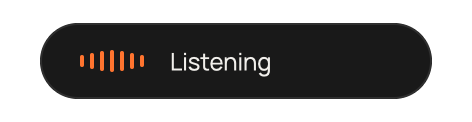
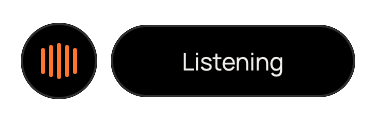
Redesign recording overlay with separate voice circle and status pill

diff --git a/src/overlay.rs b/src/overlay.rs
@@ -11,6 +11,15 @@ use objc2_foundation::{NSPoint, NSString};
 use raw_window_handle::{HasWindowHandle, RawWindowHandle};
 use std::time::Instant;
 
+const VOICE_DIAMETER: f32 = 38.;
+const LABEL_WIDTH: f32 = 122.;
+const LABEL_HEIGHT: f32 = 36.;
+const SURFACE_GAP: f32 = 7.;
+const WINDOW_MARGIN: f32 = 10.;
+const WINDOW_WIDTH: f32 = VOICE_DIAMETER + SURFACE_GAP + LABEL_WIDTH + WINDOW_MARGIN * 2.;
+const WINDOW_HEIGHT: f32 = 60.;
+const BAR_BASELINE: f32 = 3.;
+
 pub struct Overlay {
     window: WindowHandle<VoicePill>,
     native: Retained<NSWindow>,
@@ -19,8 +28,56 @@ pub struct Overlay {
 
 struct VoicePill {
     label: SharedString,
-    level: f32,
+    meter: VoiceMeter,
     started: Instant,
+}
+
+struct VoiceMeter {
+    recent: [f32; 5],
+    heights: [f32; 5],
+    rendered_at: Instant,
+}
+
+impl VoiceMeter {
+    fn new(now: Instant) -> Self {
+        Self {
+            recent: [0.; 5],
+            heights: [BAR_BASELINE; 5],
+            rendered_at: now,
+        }
+    }
+
+    fn push(&mut self, level: f32) {
+        let level = if level.is_finite() {
+            level.clamp(0., 1.)
+        } else {
+            0.
+        };
+        self.recent.rotate_left(1);
+        self.recent[4] = ((level - 0.012).max(0.) * 1.5).min(1.).sqrt();
+    }
+
+    fn sample(&mut self, now: Instant, reduced_motion: bool) -> ([f32; 5], bool) {
+        let elapsed = now.duration_since(self.rendered_at).as_secs_f32().min(0.1);
+        self.rendered_at = now;
+        let mut settling = false;
+        for (index, envelope) in [0.65, 0.85, 1., 0.85, 0.65].into_iter().enumerate() {
+            let target = BAR_BASELINE + self.recent[index] * envelope * 19.;
+            let height = &mut self.heights[index];
+            if reduced_motion {
+                *height = target;
+                continue;
+            }
+            let duration = if target > *height { 0.035 } else { 0.110 };
+            *height += (target - *height) * (1. - (-elapsed / duration).exp());
+            if (target - *height).abs() < 0.02 {
+                *height = target;
+            } else {
+                settling = true;
+            }
+        }
+        (self.heights, settling)
+    }
 }
 
 impl Overlay {
@@ -29,7 +86,7 @@ impl Overlay {
             WindowOptions {
                 window_bounds: Some(WindowBounds::Windowed(Bounds::centered(
                     None,
-                    size(px(236.), px(60.)),
+                    size(px(WINDOW_WIDTH), px(WINDOW_HEIGHT)),
                     cx,
                 ))),
                 titlebar: None,
@@ -45,7 +102,7 @@ impl Overlay {
             |_, cx| {
                 cx.new(|_| VoicePill {
                     label: "Listening".into(),
-                    level: 0.,
+                    meter: VoiceMeter::new(Instant::now()),
                     started: Instant::now(),
                 })
             },
@@ -111,15 +168,19 @@ impl Overlay {
             "Words saved for copying" => "Copy your words",
             label => label,
         };
-        let level = if level.is_finite() {
-            level.clamp(0., 1.)
-        } else {
-            0.
-        };
+        let was_visible = self.visible;
         let _ = self.window.update(cx, |pill, _, cx| {
-            if pill.label.as_ref() != label || (pill.level - level).abs() > 0.005 {
+            let changed = pill.label.as_ref() != label;
+            if !visible || !was_visible || changed {
+                pill.meter = VoiceMeter::new(Instant::now());
+            }
+            if visible && label == "Listening" {
+                pill.meter.push(level);
+            }
+            if changed {
                 pill.label = label.to_owned().into();
-                pill.level = level;
+            }
+            if changed || visible {
                 cx.notify();
             }
         });
@@ -127,7 +188,7 @@ impl Overlay {
             if let Some(screen) = MainThreadMarker::new().and_then(NSScreen::mainScreen) {
                 let frame = screen.visibleFrame();
                 self.native.setFrameOrigin(NSPoint::new(
-                    frame.origin.x + (frame.size.width - 236.) / 2.,
+                    frame.origin.x + (frame.size.width - f64::from(WINDOW_WIDTH)) / 2.,
                     frame.origin.y + 18.,
                 ));
             }
@@ -169,26 +230,25 @@ impl Render for VoicePill {
     fn render(&mut self, window: &mut Window, _: &mut Context<Self>) -> impl IntoElement {
         let listening = self.label.as_ref() == "Listening";
         let busy = matches!(self.label.as_ref(), "Starting" | "Transcribing");
+        let reduced_motion = crate::platform::reduced_motion();
+        let (heights, settling) = self.meter.sample(Instant::now(), reduced_motion);
+        if listening && settling {
+            window.request_animation_frame();
+        }
         let waveform = div()
             .flex()
             .items_center()
             .justify_center()
-            .gap(px(3.))
-            .w(px(42.))
-            .h(px(24.))
-            .children([0.35, 0.65, 0.9, 1., 0.9, 0.65, 0.35].map(|envelope| {
+            .gap(px(2.))
+            .children(heights.map(|height| {
                 div()
                     .w(px(2.))
-                    .h(px(if listening {
-                        3. + self.level * envelope * 18.
-                    } else {
-                        3.
-                    }))
+                    .h(px(if listening { height } else { BAR_BASELINE }))
                     .rounded_full()
                     .bg(rgb(0xff742f))
             }));
         let feedback = if busy {
-            let phase = if crate::platform::reduced_motion() {
+            let phase = if reduced_motion {
                 0.
             } else {
                 window.request_animation_frame();
@@ -216,7 +276,7 @@ impl Render for VoicePill {
                     }
                 },
             )
-            .w(px(42.))
+            .w(px(24.))
             .h(px(24.))
             .into_any_element()
         } else {
@@ -232,17 +292,35 @@ impl Render for VoicePill {
                 div()
                     .flex()
                     .items_center()
-                    .gap(px(8.))
-                    .px(px(14.))
-                    .h(px(38.))
-                    .rounded_full()
-                    .bg(rgb(0x191919))
-                    .border_1()
-                    .border_color(rgba(0xffffff18))
+                    .gap(px(SURFACE_GAP))
                     .text_size(px(12.))
                     .text_color(rgb(0xf2f0ec))
-                    .child(feedback)
-                    .child(div().w(px(116.)).child(self.label.clone())),
+                    .child(
+                        div()
+                            .flex()
+                            .items_center()
+                            .justify_center()
+                            .size(px(VOICE_DIAMETER))
+                            .rounded_full()
+                            .bg(rgb(0x000000))
+                            .border_1()
+                            .border_color(rgb(0x303030))
+                            .child(feedback),
+                    )
+                    .child(
+                        div()
+                            .flex()
+                            .items_center()
+                            .justify_center()
+                            .w(px(LABEL_WIDTH))
+                            .h(px(LABEL_HEIGHT))
+                            .rounded_full()
+                            .bg(rgb(0x000000))
+                            .border_1()
+                            .border_color(rgb(0x303030))
+                            .text_center()
+                            .child(self.label.clone()),
+                    ),
             )
     }
 }
@@ -250,5 +328,131 @@ impl Render for VoicePill {
 impl Drop for Overlay {
     fn drop(&mut self) {
         self.native.orderOut(None);
+    }
+}
+
+#[cfg(test)]
+mod tests {
+    use super::VoiceMeter;
+    use std::time::{Duration, Instant};
+
+    fn assert_heights(actual: [f32; 5], expected: [f32; 5]) {
+        for (actual, expected) in actual.into_iter().zip(expected) {
+            assert!((actual - expected).abs() < 0.002, "{actual} != {expected}");
+        }
+    }
+
+    #[test]
+    fn quiet_and_loud_speech_have_visible_range() {
+        let now = Instant::now();
+        let mut meter = VoiceMeter::new(now);
+        for _ in 0..5 {
+            meter.push(0.06);
+        }
+        assert_heights(
+            meter.sample(now, true).0,
+            [6.3139, 7.3336, 8.0982, 7.3336, 6.3139],
+        );
+        for _ in 0..5 {
+            meter.push(1.);
+        }
+        assert_heights(meter.sample(now, true).0, [15.35, 19.15, 22., 19.15, 15.35]);
+    }
+
+    #[test]
+    fn repeated_samples_advance_the_visible_history() {
+        let now = Instant::now();
+        let mut meter = VoiceMeter::new(now);
+        meter.push(0.06);
+        assert_heights(meter.sample(now, true).0, [3., 3., 3., 3., 6.3139]);
+        meter.push(0.06);
+        assert_heights(meter.sample(now, true).0, [3., 3., 3., 7.3336, 6.3139]);
+    }
+
+    #[test]
+    fn smoothing_depends_on_elapsed_time_instead_of_frame_count() {
+        let now = Instant::now();
+        let mut one_frame = VoiceMeter::new(now);
+        let mut two_frames = VoiceMeter::new(now);
+        for _ in 0..5 {
+            one_frame.push(1.);
+            two_frames.push(1.);
+        }
+        two_frames.sample(now + Duration::from_millis(35), false);
+        let (one, one_settling) = one_frame.sample(now + Duration::from_millis(70), false);
+        let (two, two_settling) = two_frames.sample(now + Duration::from_millis(70), false);
+        let expected = [13.6786, 16.9643, 19.4286, 16.9643, 13.6786];
+        assert_heights(one, expected);
+        assert_heights(two, expected);
+        assert!(one_settling && two_settling);
+    }
+
+    #[test]
+    fn silence_releases_then_stops_requesting_frames() {
+        let now = Instant::now();
+        let mut meter = VoiceMeter::new(now);
+        for _ in 0..5 {
+            meter.push(1.);
+        }
+        meter.sample(now, true);
+        for _ in 0..5 {
+            meter.push(0.);
+        }
+        let (releasing, settling) = meter.sample(now + Duration::from_millis(55), false);
+        assert_heights(releasing, [10.4907, 12.7955, 14.5241, 12.7955, 10.4907]);
+        assert!(settling);
+        for frame in 2..=20 {
+            meter.sample(now + Duration::from_millis(frame * 55), false);
+        }
+        let (silent, settling) = meter.sample(now + Duration::from_millis(1155), false);
+        assert_heights(silent, [3.; 5]);
+        assert!(!settling);
+    }
+
+    #[test]
+    fn reduced_motion_uses_real_targets_without_settling() {
+        let now = Instant::now();
+        let mut meter = VoiceMeter::new(now);
+        meter.push(1.);
+        let (heights, settling) = meter.sample(now, true);
+        assert_heights(heights, [3., 3., 3., 3., 15.35]);
+        assert!(!settling);
+    }
+
+    #[test]
+    fn long_render_pauses_do_not_skip_the_attack() {
+        let now = Instant::now();
+        let mut meter = VoiceMeter::new(now);
+        for _ in 0..5 {
+            meter.push(1.);
+        }
+        let (heights, settling) = meter.sample(now + Duration::from_secs(60), false);
+        assert_heights(heights, [14.6407, 18.2225, 20.9088, 18.2225, 14.6407]);
+        assert!(settling);
+    }
+
+    #[test]
+    fn fresh_meter_discards_prior_session_and_keeps_first_new_sample() {
+        let now = Instant::now();
+        let mut meter = VoiceMeter::new(now);
+        for _ in 0..5 {
+            meter.push(1.);
+        }
+        meter.sample(now, true);
+        meter = VoiceMeter::new(now);
+        meter.push(0.06);
+        assert_heights(meter.sample(now, true).0, [3., 3., 3., 3., 6.3139]);
+    }
+
+    #[test]
+    fn invalid_and_room_noise_levels_stay_at_baseline() {
+        let now = Instant::now();
+        let mut meter = VoiceMeter::new(now);
+        for level in [f32::NAN, f32::INFINITY, f32::NEG_INFINITY, -1., 0.01] {
+            meter.push(level);
+        }
+        assert_heights(meter.sample(now, true).0, [3.; 5]);
+        meter.push(2.);
+        assert_heights(meter.sample(now, true).0, [3., 3., 3., 3., 15.35]);
     }
 }

diff --git a/docs/gpui/verification.md b/docs/gpui/verification.md
@@ -39,3 +39,11 @@ The overlay focus check uses the dashboard as the focused editor. It does not pr
 `./scripts/install.sh` rebuilt the optimized executable from the GPUI source and installed it at `~/Applications/Voco.app`. Bundle checks passed the strict code-signature check, system-only dynamic dependencies, and executable UUID comparison against `target/release/voco`.
 
 The installed executable then completed `--verify-ui` with a temporary profile. The [installed UI report](evidence/installed-ui.json) identified `"ui": "gpui"` and passed the page, settings, practice input, search, overlay focus, and close/reopen checks described above. The app opened from its installed path with `--show`. This check did not exercise microphone capture or speech inference.
+
+## Split recording indicator, October 17, 2026
+
+The recording indicator now pairs a 38px black voice circle with a separate 122 × 36px black status capsule and a 7px gap. The label is centered within the status capsule. Five bars show recent measured audio with nonlinear visual gain, a 35ms attack, and a 110ms release. The overlay owns this display state; microphone capture and the controller's 60ms update cadence are unchanged.
+
+`./scripts/verify.sh` passed formatting, the dependency guard, Clippy, tests, and the debug build. The suite passed 51 tests with one ignored. Eight new waveform tests cover quiet and loud response, sample history, elapsed-time smoothing, silence settling, reduced motion, fresh state, invalid levels, and long pauses. The [build log](evidence/split-overlay-build.txt) records the results.
+
+The rebuilt executable completed `--verify-ui` with an isolated profile. The [report](evidence/split-overlay-ui.json) confirms focus preservation, mouse transparency, practice insertion, and close/reopen behavior. The refreshed [Listening capture](evidence/listening.png) and [Transcribing capture](evidence/transcribing.png) show the actual native split layout. The verification uses fixture audio levels. Live acoustic microphone response was not exercised.

diff --git a/DESIGN.md b/DESIGN.md
@@ -139,7 +139,7 @@ Home's 234 × 150px ASCII sculpture is static decoration, independent of microph
 
 Recovery adds a warm panel above status on every page. It shows the saved words in a bounded scrolling area, the error explanation, Copy your words when text exists, and Dismiss. Recovery stays reachable while the page scrolls. Failed insertion words remain available even when recent transcript retention is off.
 
-The floating pill is a native nonactivating, mouse-transparent window that preserves the editor's focus. Its visible capsule is 38px high with 14px horizontal padding, a 42px feedback slot, an 8px gap, and a 116px label slot. Seven orange waveform bars respond to measured microphone energy while Listening. Starting and Transcribing use a rotating orange arc. Other states use still baseline bars. Status changes retain the same capsule footprint. No partial transcript appears during capture.
+The floating indicator is a native nonactivating, mouse-transparent window that preserves the editor's focus. It pairs a 38px black voice circle with a separate 122 × 36px black status capsule, spaced 7px apart. Both use a faint outline. The 12px Manrope label is centered within the status capsule. Five narrow orange waveform bars show recent measured microphone energy while Listening, with stronger response to quiet speech and smooth attack and release. Silence returns the bars to their baseline. Starting and Transcribing use a rotating orange arc inside the circle. Other states use still baseline bars. Status changes retain the same footprint. No partial transcript appears during capture.
 
 ### Settings
 
